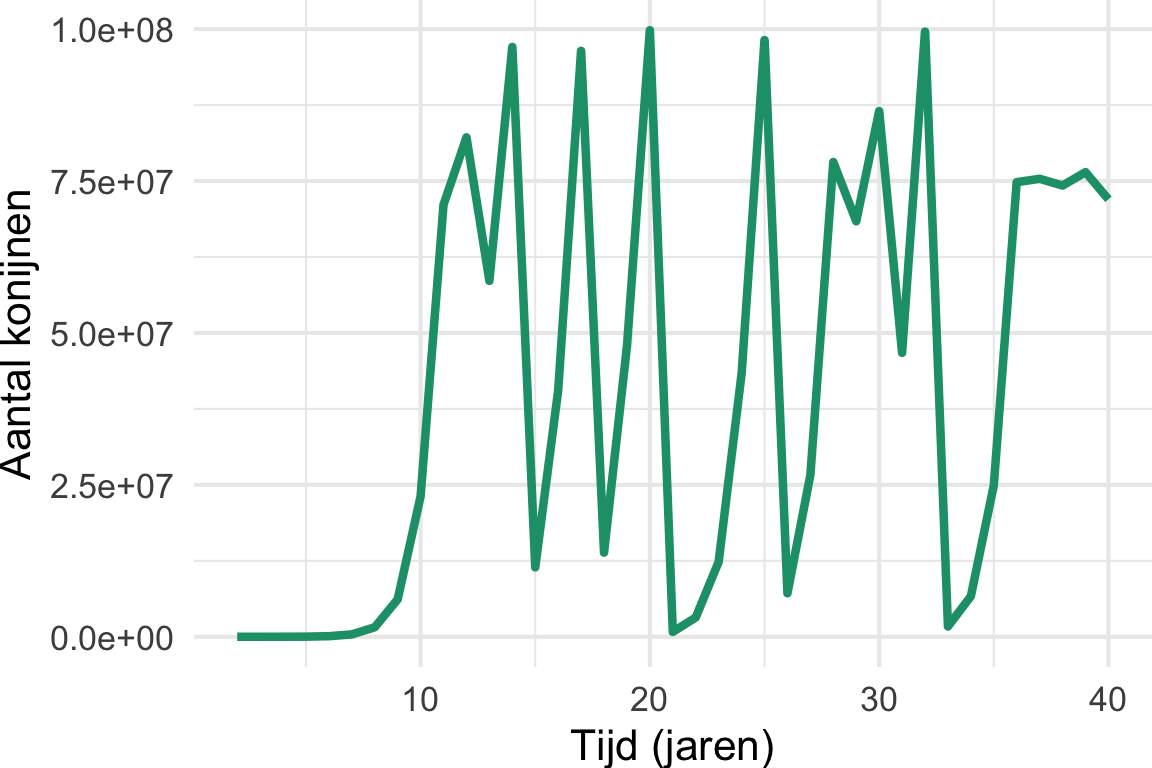
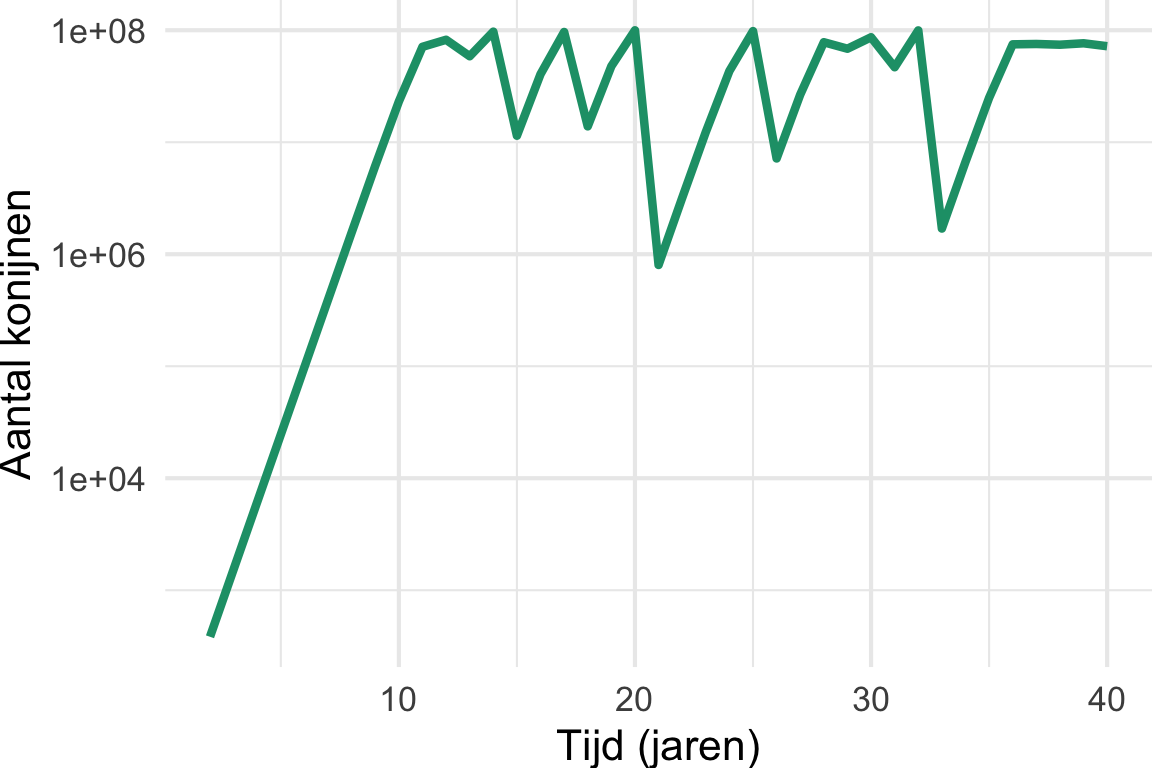
Dispatch book 2026-02-13

diff --git a/Appendices/antwoorden_modellen.html b/Appendices/antwoorden_modellen.html
@@ -624,15 +624,14 @@ Figuur&nbsp;1
 <div class="cell">
 <div class="sourceCode cell-code" id="cb4"><pre class="sourceCode r code-with-copy"><code class="sourceCode r"><span id="cb4-1"><a href="#cb4-1" aria-hidden="true" tabindex="-1"></a><span class="co"># Stap 1: Stel begin-aantal konijnen en de groeisnelheid in</span></span>
 <span id="cb4-2"><a href="#cb4-2" aria-hidden="true" tabindex="-1"></a>N <span class="ot">&lt;-</span> <span class="dv">24</span></span>
-<span id="cb4-3"><a href="#cb4-3" aria-hidden="true" tabindex="-1"></a>r <span class="ot">&lt;-</span> <span class="dv">2</span></span>
-<span id="cb4-4"><a href="#cb4-4" aria-hidden="true" tabindex="-1"></a><span class="co"># verdubbel het aantal konijnen 20 keer</span></span>
-<span id="cb4-5"><a href="#cb4-5" aria-hidden="true" tabindex="-1"></a><span class="cf">for</span> (i <span class="cf">in</span> <span class="dv">1</span><span class="sc">:</span><span class="dv">20</span>){ </span>
-<span id="cb4-6"><a href="#cb4-6" aria-hidden="true" tabindex="-1"></a>  N <span class="ot">&lt;-</span> r<span class="sc">*</span>N</span>
-<span id="cb4-7"><a href="#cb4-7" aria-hidden="true" tabindex="-1"></a>}</span>
-<span id="cb4-8"><a href="#cb4-8" aria-hidden="true" tabindex="-1"></a></span>
-<span id="cb4-9"><a href="#cb4-9" aria-hidden="true" tabindex="-1"></a><span class="co"># er zijn verschillende opties om "Het aantal konijnen na 20 tijdstappen is gelijk aan 25165824” te printen:</span></span>
-<span id="cb4-10"><a href="#cb4-10" aria-hidden="true" tabindex="-1"></a><span class="co"># met cat:</span></span>
-<span id="cb4-11"><a href="#cb4-11" aria-hidden="true" tabindex="-1"></a><span class="fu">cat</span>(<span class="st">"Het aantal konijnen na 20 tijdstappen is gelijk aan "</span>, N)</span></code><button title="Kopieer naar klembord" class="code-copy-button"><i class="bi"></i></button></pre></div>
+<span id="cb4-3"><a href="#cb4-3" aria-hidden="true" tabindex="-1"></a><span class="co"># verdubbel het aantal konijnen 20 keer</span></span>
+<span id="cb4-4"><a href="#cb4-4" aria-hidden="true" tabindex="-1"></a><span class="cf">for</span> (i <span class="cf">in</span> <span class="dv">1</span><span class="sc">:</span><span class="dv">20</span>){ </span>
+<span id="cb4-5"><a href="#cb4-5" aria-hidden="true" tabindex="-1"></a>  N <span class="ot">&lt;-</span> <span class="dv">2</span><span class="sc">*</span>N</span>
+<span id="cb4-6"><a href="#cb4-6" aria-hidden="true" tabindex="-1"></a>}</span>
+<span id="cb4-7"><a href="#cb4-7" aria-hidden="true" tabindex="-1"></a></span>
+<span id="cb4-8"><a href="#cb4-8" aria-hidden="true" tabindex="-1"></a><span class="co"># er zijn verschillende opties om "Het aantal konijnen na 20 tijdstappen is gelijk aan 25165824” te printen:</span></span>
+<span id="cb4-9"><a href="#cb4-9" aria-hidden="true" tabindex="-1"></a><span class="co"># met cat:</span></span>
+<span id="cb4-10"><a href="#cb4-10" aria-hidden="true" tabindex="-1"></a><span class="fu">cat</span>(<span class="st">"Het aantal konijnen na 20 tijdstappen is gelijk aan "</span>, N)</span></code><button title="Kopieer naar klembord" class="code-copy-button"><i class="bi"></i></button></pre></div>
 <div class="cell-output cell-output-stdout">
 <pre><code>Het aantal konijnen na 20 tijdstappen is gelijk aan  25165824</code></pre>
 </div>
@@ -646,14 +645,15 @@ Figuur&nbsp;1
 <div class="cell">
 <div class="sourceCode cell-code" id="cb8"><pre class="sourceCode r code-with-copy"><code class="sourceCode r"><span id="cb8-1"><a href="#cb8-1" aria-hidden="true" tabindex="-1"></a><span class="co"># Stap 1: Stel begin-aantal konijnen in</span></span>
 <span id="cb8-2"><a href="#cb8-2" aria-hidden="true" tabindex="-1"></a>N <span class="ot">&lt;-</span> <span class="dv">24</span></span>
-<span id="cb8-3"><a href="#cb8-3" aria-hidden="true" tabindex="-1"></a></span>
-<span id="cb8-4"><a href="#cb8-4" aria-hidden="true" tabindex="-1"></a><span class="co"># Stap 2: Verdubbel het aantal konijnen 30 keer</span></span>
-<span id="cb8-5"><a href="#cb8-5" aria-hidden="true" tabindex="-1"></a><span class="cf">for</span> (t <span class="cf">in</span> <span class="dv">1</span><span class="sc">:</span><span class="dv">30</span>){</span>
-<span id="cb8-6"><a href="#cb8-6" aria-hidden="true" tabindex="-1"></a>  N[t<span class="sc">+</span><span class="dv">1</span>] <span class="ot">&lt;-</span> <span class="dv">2</span><span class="sc">*</span>N[t]</span>
-<span id="cb8-7"><a href="#cb8-7" aria-hidden="true" tabindex="-1"></a>}</span>
-<span id="cb8-8"><a href="#cb8-8" aria-hidden="true" tabindex="-1"></a></span>
-<span id="cb8-9"><a href="#cb8-9" aria-hidden="true" tabindex="-1"></a><span class="co"># Stap 3: Plot het resultaat</span></span>
-<span id="cb8-10"><a href="#cb8-10" aria-hidden="true" tabindex="-1"></a><span class="fu">plot</span>(N, <span class="at">type=</span><span class="st">'l'</span>, <span class="at">col=</span><span class="st">"seagreen"</span>, <span class="at">lwd=</span><span class="dv">2</span>)</span></code><button title="Kopieer naar klembord" class="code-copy-button"><i class="bi"></i></button></pre></div>
+<span id="cb8-3"><a href="#cb8-3" aria-hidden="true" tabindex="-1"></a>r <span class="ot">&lt;-</span> <span class="dv">2</span></span>
+<span id="cb8-4"><a href="#cb8-4" aria-hidden="true" tabindex="-1"></a></span>
+<span id="cb8-5"><a href="#cb8-5" aria-hidden="true" tabindex="-1"></a><span class="co"># Stap 2: Vermeerder het aantal konijnen 30 keer</span></span>
+<span id="cb8-6"><a href="#cb8-6" aria-hidden="true" tabindex="-1"></a><span class="cf">for</span> (t <span class="cf">in</span> <span class="dv">1</span><span class="sc">:</span><span class="dv">30</span>){</span>
+<span id="cb8-7"><a href="#cb8-7" aria-hidden="true" tabindex="-1"></a>  N[t<span class="sc">+</span><span class="dv">1</span>] <span class="ot">&lt;-</span> r<span class="sc">*</span>N[t]</span>
+<span id="cb8-8"><a href="#cb8-8" aria-hidden="true" tabindex="-1"></a>}</span>
+<span id="cb8-9"><a href="#cb8-9" aria-hidden="true" tabindex="-1"></a></span>
+<span id="cb8-10"><a href="#cb8-10" aria-hidden="true" tabindex="-1"></a><span class="co"># Stap 3: Plot het resultaat</span></span>
+<span id="cb8-11"><a href="#cb8-11" aria-hidden="true" tabindex="-1"></a><span class="fu">plot</span>(N, <span class="at">type=</span><span class="st">'l'</span>, <span class="at">col=</span><span class="st">"seagreen"</span>, <span class="at">lwd=</span><span class="dv">2</span>)</span></code><button title="Kopieer naar klembord" class="code-copy-button"><i class="bi"></i></button></pre></div>
 <div class="cell-output-display">
 <div>
 <figure class="figure">
@@ -666,12 +666,13 @@ Figuur&nbsp;1
 <div class="cell">
 <div class="sourceCode cell-code" id="cb9"><pre class="sourceCode r code-with-copy"><code class="sourceCode r"><span id="cb9-1"><a href="#cb9-1" aria-hidden="true" tabindex="-1"></a><span class="co"># Stap 1: Stel begin -aantal konijnen in</span></span>
 <span id="cb9-2"><a href="#cb9-2" aria-hidden="true" tabindex="-1"></a>N <span class="ot">&lt;-</span> <span class="dv">24</span></span>
-<span id="cb9-3"><a href="#cb9-3" aria-hidden="true" tabindex="-1"></a><span class="co"># Stap 2: Verdubbel het aantal konijnen 30 keer</span></span>
-<span id="cb9-4"><a href="#cb9-4" aria-hidden="true" tabindex="-1"></a><span class="cf">for</span> (t <span class="cf">in</span> <span class="dv">1</span><span class="sc">:</span><span class="dv">30</span>){</span>
-<span id="cb9-5"><a href="#cb9-5" aria-hidden="true" tabindex="-1"></a>N[t<span class="sc">+</span><span class="dv">1</span>] <span class="ot">&lt;-</span> <span class="dv">2</span><span class="sc">*</span>N[t]</span>
-<span id="cb9-6"><a href="#cb9-6" aria-hidden="true" tabindex="-1"></a>}</span>
-<span id="cb9-7"><a href="#cb9-7" aria-hidden="true" tabindex="-1"></a><span class="co"># Stap 3: Plot het resultaat met een logaritmische y as, net zoals in de code van figuur 3</span></span>
-<span id="cb9-8"><a href="#cb9-8" aria-hidden="true" tabindex="-1"></a><span class="fu">plot</span>(N , <span class="at">type=</span><span class="st">'l'</span>, <span class="at">col=</span><span class="st">"seagreen"</span>, <span class="at">lwd=</span><span class="dv">2</span>, <span class="at">log=</span><span class="st">"y"</span>)</span></code><button title="Kopieer naar klembord" class="code-copy-button"><i class="bi"></i></button></pre></div>
+<span id="cb9-3"><a href="#cb9-3" aria-hidden="true" tabindex="-1"></a>r <span class="ot">&lt;-</span> <span class="dv">2</span></span>
+<span id="cb9-4"><a href="#cb9-4" aria-hidden="true" tabindex="-1"></a><span class="co"># Stap 2: Vermeerder het aantal konijnen 30 keer</span></span>
+<span id="cb9-5"><a href="#cb9-5" aria-hidden="true" tabindex="-1"></a><span class="cf">for</span> (t <span class="cf">in</span> <span class="dv">1</span><span class="sc">:</span><span class="dv">30</span>){</span>
+<span id="cb9-6"><a href="#cb9-6" aria-hidden="true" tabindex="-1"></a>N[t<span class="sc">+</span><span class="dv">1</span>] <span class="ot">&lt;-</span> r<span class="sc">*</span>N[t]</span>
+<span id="cb9-7"><a href="#cb9-7" aria-hidden="true" tabindex="-1"></a>}</span>
+<span id="cb9-8"><a href="#cb9-8" aria-hidden="true" tabindex="-1"></a><span class="co"># Stap 3: Plot het resultaat met een logaritmische y as, net zoals in de code van figuur 3</span></span>
+<span id="cb9-9"><a href="#cb9-9" aria-hidden="true" tabindex="-1"></a><span class="fu">plot</span>(N , <span class="at">type=</span><span class="st">'l'</span>, <span class="at">col=</span><span class="st">"seagreen"</span>, <span class="at">lwd=</span><span class="dv">2</span>, <span class="at">log=</span><span class="st">"y"</span>)</span></code><button title="Kopieer naar klembord" class="code-copy-button"><i class="bi"></i></button></pre></div>
 <div class="cell-output-display">
 <div>
 <figure class="figure">
@@ -866,14 +867,14 @@ N = {(b - 1) \over d} \\
 {\mathrm{d}P/\mathrm{d}t}
 {\mathrm{d}P/\mathrm{d}t}
 \)</span>.</p>
-<p><strong>c.</strong> De eenheid van <span class="math inline">\(\delta\)</span> is “per jaar”, want de term <span class="math inline">\(\delta P\)</span> heeft de eenheid <span class="math inline">\(P \over t\)</span> en <span class="math inline">\(\delta P = P \over t\)</span> geeft <span class="math inline">\(\delta = {1 \over t}\)</span>.</p>
+<p><strong>c.</strong> De eenheid van <span class="math inline">\(\delta\)</span> is “per jaar”, want de term <span class="math inline">\(\delta P\)</span> heeft de eenheid <span class="math inline">\(P \over t\)</span> en <span class="math inline">\(\delta P = {P \over t}\)</span> geeft <span class="math inline">\(\delta = {1 \over t}\)</span>.</p>
 <p><strong>d.</strong> De afbraak van plastic gaat erg langzaam, dus (met het huidige gedrag van mensen) is <span class="math inline">\(k\)</span> veel groter dan <span class="math inline">\(\delta P\)</span>.</p>
 <p><a href="../Modellen/odes_basis.html#exr-litersbacterien" class="quarto-xref">Oefening&nbsp;<span>11.2</span></a></p>
 <p><strong>a.</strong> Hiervoor gebruiken we de kettingregel. Omdat <span class="math inline">\(t\)</span> alleen in de macht staat wordt dit eenvoudig de afgeleide van deze macht (wat simpelweg <span class="math inline">\(r\)</span> is), keer de volledig functie <span class="math inline">\(B_0  \cdot e^{rt}\)</span>. De afgeleide is dus <span class="math inline">\(r \cdot B_0 \cdot e^{rt}\)</span>.</p>
 <p><strong>b.</strong> Het gehele deel na <span class="math inline">\(r\)</span> is belijk aan <span class="math inline">\(B(t)\)</span>, dus we kunnen de afgeleide uit a ook zo opschrijven: <span class="math inline">\(r \cdot B(t)\)</span>. Dit is gewoon weer de ODE! Het klopt dus inderdaad dat de afgeleide van de oplossing altijd gelijk is aan de ODE.</p>
 <p><strong>c.</strong> Eerst moeten we minuten in uren omrekenen. 400 minuten is 6 uur en 40 minuten, wat neerkomt op <span class="math inline">\(t=6.667\)</span> uur. Als we dit invullen in de oplossing krijgen we <span class="math inline">\(B(t) = B_0 \cdot e^{rt} = 1000 \cdot e^{1.4 \cdot 6.667} = 11,361,662\)</span>. Verbaal (in spreektaal) komt dit neer op 11 miljoen.</p>
 <p><strong>d.</strong> In dit geval hoeven we niets om te rekenen, want 24 uur is gewoon 24 uur. <span class="math inline">\(B(t) = B_0 \cdot e^{rt} = 1000 \cdot e^{1.4 \cdot 24} = 3.911061e17\)</span>. Verbaal (in spreektaal) is dit dus bijna 400 biljard (biljard is een getal met 15 nullen).</p>
-<p><strong>e.</strong> We hadden ongeveer <code>3.911061e17</code> bacterien, dus om het aantal liters te weten moeten we dit getal simpelweg vermenigvuldigen met het volume van 1 bacterie (zoals gegeven in de opdracht is dat <span class="math inline">\(10^{-15}\)</span> liter). Je kan dit in je rekenmachine intypen, maar is typen op je computer (Rstudio bijvoorbeeld!) veel makkelijker: <code>3.911061e17 * 10^{-15}=391.1061</code>. We hebben dus volgens onze berekening bijna 400 liter bacteriën na 24 uur. Deze hoeveelheid bacteriën past zeer zeker niet in een Erlenmeyer van 250 mililiter.</p>
+<p><strong>e.</strong> We hadden ongeveer <code>3.911061e17</code> bacterien, dus om het aantal liters te weten moeten we dit getal simpelweg vermenigvuldigen met het volume van 1 bacterie (zoals gegeven in de opdracht is dat <span class="math inline">\(0.6 \cdot 10^{-15}\)</span> liter). Je kan dit in je rekenmachine intypen, maar is typen op je computer (Rstudio bijvoorbeeld!) veel makkelijker: <code>3.911061e17 * 10^{-15}=234.6637</code>. We hebben dus volgens onze berekening bijna 235 liter bacteriën na 24 uur. Deze hoeveelheid bacteriën past zeer zeker niet in een Erlenmeyer van 250 mililiter.</p>
 <p><a href="../Modellen/odes_basis.html#exr-eenheden-tussen2" class="quarto-xref">Oefening&nbsp;<span>11.3</span></a></p>
 <p><strong>a.</strong> Bij <span class="math inline">\(P = {k \over \delta}\)</span>. Bij een evenwichtssituatie is <span class="math inline">\(
 \mathchoice{\frac{\mathrm{d}P}
@@ -930,7 +931,7 @@ N = {(b - 1) \over d} \\
 {\mathrm{d}B/\mathrm{d}t}
 {\mathrm{d}B/\mathrm{d}t}
 = p - d B = 0 \quad \text{ als...}\\
-    \delta B &amp;= p &amp; \\
+    dB &amp;= p &amp; \\
     B &amp;= \frac{p}{d} &amp;
 \end{align*}\]</span></p>
 <p><strong>d.</strong></p>
@@ -2996,7 +2997,7 @@ window.document.addEventListener("DOMContentLoaded", function (event) {
 </div>
   </div>
 </footer>
-<script>var lightboxQuarto = GLightbox({"selector":".lightbox","descPosition":"bottom","openEffect":"zoom","loop":false,"closeEffect":"zoom"});
+<script>var lightboxQuarto = GLightbox({"selector":".lightbox","descPosition":"bottom","loop":false,"openEffect":"zoom","closeEffect":"zoom"});
 (function() {
   let previousOnload = window.onload;
   window.onload = () => {

diff --git a/Modellen/odes_basis.html b/Modellen/odes_basis.html
@@ -635,21 +635,23 @@ N(t+1) &amp;= rN(t)(1-\frac{N(t)}{K})
 <span id="cb1-26"><a href="#cb1-26" aria-hidden="true" tabindex="-1"></a>  <span class="fu">scale_color_brewer</span>(<span class="at">type=</span><span class="st">"qual"</span>, <span class="at">palette =</span> <span class="st">"Dark2"</span>, <span class="at">name=</span><span class="st">""</span>) <span class="sc">+</span></span>
 <span id="cb1-27"><a href="#cb1-27" aria-hidden="true" tabindex="-1"></a>  <span class="fu">guides</span>(<span class="at">color=</span><span class="st">"none"</span>)<span class="sc">+</span></span>
 <span id="cb1-28"><a href="#cb1-28" aria-hidden="true" tabindex="-1"></a>  <span class="fu">ylab</span>(<span class="st">"Aantal konijnen"</span>) <span class="sc">+</span></span>
-<span id="cb1-29"><a href="#cb1-29" aria-hidden="true" tabindex="-1"></a>  <span class="fu">xlab</span>(<span class="st">"Tijd (jaren)"</span>) <span class="sc">+</span></span>
-<span id="cb1-30"><a href="#cb1-30" aria-hidden="true" tabindex="-1"></a>  <span class="fu">theme_minimal</span>(<span class="at">base_size=</span><span class="dv">16</span>)<span class="sc">+</span></span>
-<span id="cb1-31"><a href="#cb1-31" aria-hidden="true" tabindex="-1"></a>  <span class="fu">theme</span>(<span class="at">plot.margin =</span> <span class="fu">unit</span>(<span class="fu">c</span>(<span class="dv">0</span>,<span class="dv">0</span>,<span class="dv">0</span>,<span class="dv">0</span>), <span class="st">"cm"</span>))</span>
-<span id="cb1-32"><a href="#cb1-32" aria-hidden="true" tabindex="-1"></a>R_series <span class="sc">%&gt;%</span> <span class="fu">filter</span>(time<span class="sc">&gt;</span><span class="dv">1</span>,time <span class="sc">&lt;</span><span class="dv">40</span>,r<span class="sc">==</span><span class="dv">4</span>) <span class="sc">%&gt;%</span> </span>
-<span id="cb1-33"><a href="#cb1-33" aria-hidden="true" tabindex="-1"></a>  <span class="fu">ggplot</span>(<span class="fu">aes</span>(<span class="at">x=</span>time,<span class="at">y=</span>R,<span class="at">group=</span>s,<span class="at">col=</span><span class="fu">as.factor</span>(initR))) <span class="sc">+</span> </span>
-<span id="cb1-34"><a href="#cb1-34" aria-hidden="true" tabindex="-1"></a>  <span class="fu">geom_line</span>(<span class="at">size=</span><span class="fl">1.2</span>) <span class="sc">+</span> </span>
-<span id="cb1-35"><a href="#cb1-35" aria-hidden="true" tabindex="-1"></a>  <span class="co">#facet_wrap(~r, scale="free_y",ncol=1) + </span></span>
-<span id="cb1-36"><a href="#cb1-36" aria-hidden="true" tabindex="-1"></a>  <span class="fu">theme_bw</span>() <span class="sc">+</span></span>
-<span id="cb1-37"><a href="#cb1-37" aria-hidden="true" tabindex="-1"></a>  <span class="fu">guides</span>(<span class="at">color=</span><span class="st">"none"</span>)<span class="sc">+</span></span>
-<span id="cb1-38"><a href="#cb1-38" aria-hidden="true" tabindex="-1"></a>  <span class="fu">scale_color_brewer</span>(<span class="at">type=</span><span class="st">"qual"</span>, <span class="at">palette =</span> <span class="st">"Dark2"</span>, <span class="at">name=</span><span class="st">"Begin aantal</span><span class="sc">\n</span><span class="st">konijnen"</span>) <span class="sc">+</span></span>
-<span id="cb1-39"><a href="#cb1-39" aria-hidden="true" tabindex="-1"></a>  <span class="fu">guides</span>(<span class="at">alpha=</span><span class="st">"none"</span>) <span class="sc">+</span></span>
-<span id="cb1-40"><a href="#cb1-40" aria-hidden="true" tabindex="-1"></a>  <span class="fu">ylab</span>(<span class="st">"Aantal konijnen"</span>) <span class="sc">+</span></span>
-<span id="cb1-41"><a href="#cb1-41" aria-hidden="true" tabindex="-1"></a>  <span class="fu">xlab</span>(<span class="st">"Tijd (jaren)"</span>) <span class="sc">+</span></span>
-<span id="cb1-42"><a href="#cb1-42" aria-hidden="true" tabindex="-1"></a>  <span class="fu">theme_minimal</span>(<span class="at">base_size=</span><span class="dv">16</span>)<span class="sc">+</span></span>
-<span id="cb1-43"><a href="#cb1-43" aria-hidden="true" tabindex="-1"></a>  <span class="fu">theme</span>(<span class="at">plot.margin =</span> <span class="fu">unit</span>(<span class="fu">c</span>(<span class="dv">0</span>,<span class="dv">0</span>,<span class="dv">0</span>,<span class="dv">0</span>), <span class="st">"cm"</span>))</span></code><button title="Kopieer naar klembord" class="code-copy-button"><i class="bi"></i></button></pre></div>
+<span id="cb1-29"><a href="#cb1-29" aria-hidden="true" tabindex="-1"></a>  <span class="fu">scale_y_log10</span>()<span class="sc">+</span></span>
+<span id="cb1-30"><a href="#cb1-30" aria-hidden="true" tabindex="-1"></a>  <span class="fu">xlab</span>(<span class="st">"Tijd (jaren)"</span>) <span class="sc">+</span></span>
+<span id="cb1-31"><a href="#cb1-31" aria-hidden="true" tabindex="-1"></a>  <span class="fu">theme_minimal</span>(<span class="at">base_size=</span><span class="dv">16</span>)<span class="sc">+</span></span>
+<span id="cb1-32"><a href="#cb1-32" aria-hidden="true" tabindex="-1"></a>  <span class="fu">theme</span>(<span class="at">plot.margin =</span> <span class="fu">unit</span>(<span class="fu">c</span>(<span class="dv">0</span>,<span class="dv">0</span>,<span class="dv">0</span>,<span class="dv">0</span>), <span class="st">"cm"</span>))</span>
+<span id="cb1-33"><a href="#cb1-33" aria-hidden="true" tabindex="-1"></a>R_series <span class="sc">%&gt;%</span> <span class="fu">filter</span>(time<span class="sc">&gt;</span><span class="dv">1</span>,time <span class="sc">&lt;</span><span class="dv">40</span>,r<span class="sc">==</span><span class="dv">4</span>) <span class="sc">%&gt;%</span> </span>
+<span id="cb1-34"><a href="#cb1-34" aria-hidden="true" tabindex="-1"></a>  <span class="fu">ggplot</span>(<span class="fu">aes</span>(<span class="at">x=</span>time,<span class="at">y=</span>R,<span class="at">group=</span>s,<span class="at">col=</span><span class="fu">as.factor</span>(initR))) <span class="sc">+</span> </span>
+<span id="cb1-35"><a href="#cb1-35" aria-hidden="true" tabindex="-1"></a>  <span class="fu">geom_line</span>(<span class="at">size=</span><span class="fl">1.2</span>) <span class="sc">+</span> </span>
+<span id="cb1-36"><a href="#cb1-36" aria-hidden="true" tabindex="-1"></a>  <span class="co">#facet_wrap(~r, scale="free_y",ncol=1) + </span></span>
+<span id="cb1-37"><a href="#cb1-37" aria-hidden="true" tabindex="-1"></a>  <span class="fu">theme_bw</span>() <span class="sc">+</span></span>
+<span id="cb1-38"><a href="#cb1-38" aria-hidden="true" tabindex="-1"></a>  <span class="co">#guides(color="none")+</span></span>
+<span id="cb1-39"><a href="#cb1-39" aria-hidden="true" tabindex="-1"></a>  <span class="fu">scale_color_brewer</span>(<span class="at">type=</span><span class="st">"qual"</span>, <span class="at">palette =</span> <span class="st">"Dark2"</span>, <span class="at">name=</span><span class="st">"Begin aantal</span><span class="sc">\n</span><span class="st">konijnen"</span>) <span class="sc">+</span></span>
+<span id="cb1-40"><a href="#cb1-40" aria-hidden="true" tabindex="-1"></a>  <span class="fu">guides</span>(<span class="at">alpha=</span><span class="st">"none"</span>) <span class="sc">+</span></span>
+<span id="cb1-41"><a href="#cb1-41" aria-hidden="true" tabindex="-1"></a>  <span class="fu">scale_y_log10</span>()<span class="sc">+</span></span>
+<span id="cb1-42"><a href="#cb1-42" aria-hidden="true" tabindex="-1"></a>  <span class="fu">ylab</span>(<span class="st">"Aantal konijnen"</span>) <span class="sc">+</span></span>
+<span id="cb1-43"><a href="#cb1-43" aria-hidden="true" tabindex="-1"></a>  <span class="fu">xlab</span>(<span class="st">"Tijd (jaren)"</span>) <span class="sc">+</span></span>
+<span id="cb1-44"><a href="#cb1-44" aria-hidden="true" tabindex="-1"></a>  <span class="fu">theme_minimal</span>(<span class="at">base_size=</span><span class="dv">16</span>)<span class="sc">+</span></span>
+<span id="cb1-45"><a href="#cb1-45" aria-hidden="true" tabindex="-1"></a>  <span class="fu">theme</span>(<span class="at">plot.margin =</span> <span class="fu">unit</span>(<span class="fu">c</span>(<span class="dv">0</span>,<span class="dv">0</span>,<span class="dv">0</span>,<span class="dv">0</span>), <span class="st">"cm"</span>))</span></code><button title="Kopieer naar klembord" class="code-copy-button"><i class="bi"></i></button></pre></div>
 </details>
 <div id="fig-chaos" class="quarto-layout-panel">
 <figure class="quarto-float quarto-float-fig figure">
@@ -1111,7 +1113,7 @@ B(t) = B_0 \cdot e^{rt}
 <li><span class="math inline">\(t\)</span> de tijd in uren is</li>
 </ul>
 <ol type="a">
-<li>Bepaal de afgeleide voor <span class="math inline">\(t\)</span> van de rechter zijde van <a href="#eq-oplossingbact" class="quarto-xref">Vergelijking&nbsp;<span>11.6</span></a>.</li>
+<li>Bepaal de afgeleide van <span class="math inline">\(B(t)\)</span> (zie <a href="#eq-oplossingbact" class="quarto-xref">Vergelijking&nbsp;<span>11.6</span></a>).</li>
 <li>Kijk nog eens naar <a href="#eq-oplossingbact" class="quarto-xref">Vergelijking&nbsp;<span>11.6</span></a>. Kun je deze vergelijking gebruiken om het antwoord in a anders (korter!) opschrijven? Wat valt je op aan je antwoordt?</li>
 </ol>
 <p>We groeien een beginpopulatie van 1000 E. coli cellen. E. coli deelt onder goede omstandigheden <span class="math inline">\(1.4\)</span> keer per uur. Dankzij de algemene oplossing kunnen we precies uitrekenen hoeveel bacteriën er op elk tijdpunt zijn.</p>
@@ -1194,8 +1196,8 @@ B(t) = B_0 \cdot e^{rt}
 <li>De code in de for-loop produceert een specifieke oplossing, dat wil zeggen het rekent één van de mogelijke tijd-series uit voor <span class="math inline">\(B(t)\)</span>. Dit gebeurt op een zeer grove manier door in stappen de integraal (de opsomming van kleine veranderingen) door te rekenen. Om dit netjes te doen, gebruik je normaal gesproken integrators die automatisch zorgen dat de tijdstap niet te groot is<a href="#fn2" class="footnote-ref" id="fnref2" role="doc-noteref"><sup>2</sup></a>. Leg uit waarom dat belangrijk kan zijn (hint: denk aan het vorige hoofdstuk).</li>
 <li>Schat met behulp van de grafiek in hoe lang het duurt om de helft van het bloedverlies te herstellen.</li>
 <li>Stel dat je slechts een beetje bloed verliest (0.1%). Hoe lang duurt het om hiervan de helft te herstellen?</li>
-<li>Wat bepaalt denk je hoe snel je van bloedverlies herstelt (<span class="math inline">\(p\)</span>, <span class="math inline">\(d\)</span>, of beide)?</li>
-<li>Gebruik het script om te bepalen welke parameter (<span class="math inline">\(p\)</span> of <span class="math inline">\(d\)</span>) de snelheid van herstel bepaalt. Komt dit overeen met je eerdere inschatting?</li>
+<li>Heroverweeg – nu je het script hebt bekeken – nogmaals welke parameter (<span class="math inline">\(p\)</span>, <span class="math inline">\(d\)</span>, of beide) de snelheid van herstel bepaalt.</li>
+<li>Gebruik het script om te bepalen welke parameter (<span class="math inline">\(p\)</span> of <span class="math inline">\(d\)</span>) de snelheid van herstel bepaalt. Komt dit overeen met je eerdere inschattingen?</li>
 </ol>
 </div>
 <div id="exr-diffvsdiffinR" class="Rexr theorem exercise">
@@ -1244,7 +1246,7 @@ B(t) = B_0 \cdot e^{rt}
 <p>Het bovenstaande script is iets anders geschreven dan het eerste script. Simpele scripts kunnen vaak op heel veel manieren geschreven worden. Zo genereert de bovenstaande code niet een tijdserie-vector (zoals het vorige voorbeeld), maar een tijdserie-dataframe. Het voordeel hiervan is dat we ook een tweede kolom kunnen bijhouden: de hoeveelheid tijd die is verstreken.</p>
 <ol type="a">
 <li>Bestudeer het eerste R-script (voor de <strong>differentie</strong>vergelijking). Voer het script uit voor veel verschillende waarden van <span class="math inline">\(r\)</span>. Wat gebeurt er met <span class="math inline">\(r&lt;1\)</span>? Wat gebeurt er met <span class="math inline">\(r&gt;3.7\)</span>? <br></li>
-<li>Bestudeer ook het tweede R-script (voor de <strong>differentiaal</strong>vergelijking, waarbij we kleine stapjes nemen). Wat gebeurt er met <span class="math inline">\(r&lt;1\)</span>? Wat gebeurt er nu met <span class="math inline">\(r&gt;3.7\)</span>? Welke waarde van <span class="math inline">\(r\)</span> geeft afname? Welke Bij welke waarde van <span class="math inline">\(r\)</span> krijg je chaotische fluctuaties?</li>
+<li>Bestudeer ook het tweede R-script (voor de <strong>differentiaal</strong>vergelijking, waarbij we kleine stapjes nemen). Wat gebeurt er met <span class="math inline">\(r&lt;1\)</span>? Wat gebeurt er nu met <span class="math inline">\(r&gt;3.7\)</span>? Welke waarde van <span class="math inline">\(r\)</span> geeft afname? Bij welke waarde van <span class="math inline">\(r\)</span> krijg je chaotische fluctuaties?</li>
 <li>Maak de tijdstap voor de differentiaalvergelijking heel klein (bijv <code>delta_t = 0.0001</code>), en voer het hele script uit. Wat valt je op? (hint: R-studio heeft rechtsboven in de console een grote rode STOP-knop)</li>
 </ol>
 </div>
@@ -1911,7 +1913,7 @@ window.document.addEventListener("DOMContentLoaded", function (event) {
 </div>
   </div>
 </footer>
-<script>var lightboxQuarto = GLightbox({"openEffect":"zoom","descPosition":"bottom","closeEffect":"zoom","selector":".lightbox","loop":false});
+<script>var lightboxQuarto = GLightbox({"closeEffect":"zoom","openEffect":"zoom","selector":".lightbox","loop":false,"descPosition":"bottom"});
 (function() {
   let previousOnload = window.onload;
   window.onload = () => {

diff --git a/Modellen/exponentielegroei.html b/Modellen/exponentielegroei.html
@@ -578,6 +578,7 @@ window.Quarto = {
 <li>Aantonen wanneer groei exponentiëel is</li>
 <li>Uitleggen dat snelle groei niet altijd exponentiële groei is</li>
 <li>Uitleggen wat dichtheidsafhankelijkheid (<em>density dependence</em>) is, en hoe dit resulteert in een maximaal draagvermogen (<em>carrying capacity</em>) van een (eco)systeem of populatie</li>
+<li>Uitleggen wat logistische groei is, en hoe dit zich verhoudt tot exponentiële groei</li>
 </ul>
 <div class="quarto-figure quarto-figure-center">
 <figure class="figure">
@@ -868,7 +869,7 @@ Figuur&nbsp;10.3: De regels van een simpele computersimulatie voor de verspreidi
 <p>Laten we de konijnenpopulatie uit de vorige opgave ook in een ander type model bekijken. Hiervoor simuleren we een “miniatuur Australië” (zie <a href="#fig-rabbits-sim" class="quarto-xref">Figuur&nbsp;<span>10.3</span></a>). Laten we Australië in drie types hokjes opdelen: grashokjes (groen) waarop konijnen kunnen voortplanten, konijnhokjes (bruin), en oceaanhokjes (blauw). We nemen voor het gemak aan dat er geen woestijn-hokjes zijn, wat betekent dat konijnen overal in Australie kunnen voortplanten. Elke tijdstap kunnen konijnen zich vermenigvuldigen door een naastgelegen grashokje over te nemen. Deze “geboortekans” zetten we vast op 80%, en ondervindt géén dichtheidsafhankelijkheid. Konijnen kunnen ook sterven met een vaste kans van 1%, waardoor een bruin hokje weer groen wordt. Als laatste nemen we voor het gemak aan dat konijnen niet bewegen.</p>
 <ol type="a">
 <li><p>Lees de bovenstaande modelomschrijving zorgvuldig door. Verwacht je exponentiële groei? Waarom wel/niet?</p></li>
-<li><p>Verwacht je dat er een draagvermogen (<em>carrying capacity</em>) zal zijn?</p></li>
+<li><p>Verwacht je dat er een draagvermogen (<em>carrying capacity</em>) zal zijn? <strong>Bespreek je antwoord op a en b met je studentassistent</strong>.<a href="#fn2" class="footnote-ref" id="fnref2" role="doc-noteref"><sup>2</sup></a></p></li>
 <li><p>Een interactieve versie van deze simulatie zie je hieronder. Start de simulatie en bekijk de grafieken. Had je de vorige vragen juist beantwoord?</p></li>
 </ol>
 <div class="print-only">
@@ -886,7 +887,7 @@ Figuur&nbsp;10.3: De regels van een simpele computersimulatie voor de verspreidi
 </iframe>
 </div>
 <ol start="4" type="a">
-<li><p>Omdat dit model willekeur bevat (geboorte en sterfte worden met kansen bepaald), zijn populatiegroottes niet elke keer hetzelfde en is de groei nooit <em>perfect</em> exponentieel. We kunnen wél testen of de groei bij benadering exponentieel is. Daarvoor tellen we bijvoorbeeld elke 10 tijdstappen het aantal konijnen: <code>13, 108, 311, 665, 1137, 1773, 2549, 3384</code>. Gebruik R om te bepalen of deze groei ongeveer exponentieel is.</p></li>
+<li><p>Omdat dit model willekeur bevat (geboorte en sterfte worden met kansen bepaald), zijn populatiegroottes niet elke keer hetzelfde en is de groei nooit <em>perfect</em> exponentieel. We kunnen wél testen of de groei bij benadering exponentieel is. Daarvoor tellen we bijvoorbeeld elke 10 tijdstappen het aantal konijnen, wat we in een R-vector kunnen stoppen: <code>konijnen &lt;- c(13, 108, 311, 665, 1137, 1773, 2549, 3384)</code>. Dan kunnen we met <code>plot(konijnen, type='l')</code> kunnen we deze waarden plotten. Bepaal of deze groei exponentieel is.</p></li>
 <li><p>De simulatie bereikt een draagvermogen van ongeveer 8000 konijnen, wat veel minder is dan honderden miljoenen. We zouden een veel groter Australië kunnen simuleren, maar dat maakt een dergelijke computer-simulatie erg langzaam. We kunnen ook definiëren dat elk hokje niet 1 konijn is, maar een lokale populatie konijnen. Wat zou dit betekenen voor de interpretatie van de geboorte- en de sterftekans?</p></li>
 </ol>
 </div>
@@ -941,6 +942,7 @@ Figuur&nbsp;10.3: De regels van een simpele computersimulatie voor de verspreidi
 <hr>
 <ol>
 <li id="fn1"><p>Niet te verwarren met de differen<strong>tiaal</strong>vergelijking, waar we in het volgende hoofdstuk over gaan leren!<a href="#fnref1" class="footnote-back" role="doc-backlink">↩</a></p></li>
+<li id="fn2"><p>Verwachtingsvragen zijn vaak open, en er is niet een eenduidig “goed” of “fout” antwoord. Het is belangrijk dat je je verwachtingen onderbouwt, en dat je deze verwachtingen bespreekt met anderen, zodat je samen tot een beter begrip van de stof komt!<a href="#fnref2" class="footnote-back" role="doc-backlink">↩</a></p></li>
 </ol>
 </section>
 
@@ -1542,7 +1544,7 @@ window.document.addEventListener("DOMContentLoaded", function (event) {
 </div>
   </div>
 </footer>
-<script>var lightboxQuarto = GLightbox({"selector":".lightbox","loop":false,"closeEffect":"zoom","openEffect":"zoom","descPosition":"bottom"});
+<script>var lightboxQuarto = GLightbox({"closeEffect":"zoom","selector":".lightbox","openEffect":"zoom","loop":false,"descPosition":"bottom"});
 (function() {
   let previousOnload = window.onload;
   window.onload = () => {

diff --git a/Appendices/antwoorden_statistiek.html b/Appendices/antwoorden_statistiek.html
@@ -2631,7 +2631,7 @@ mean of x mean of y
 <p><strong>Visualiseren:</strong></p>
 <div class="sourceCode cell-code" id="cb162"><pre class="sourceCode r code-with-copy"><code class="sourceCode r"><span id="cb162-1"><a href="#cb162-1" aria-hidden="true" tabindex="-1"></a><span class="fu">hist</span>(massa_manacus<span class="sc">$</span>Weight)</span>
 <span id="cb162-2"><a href="#cb162-2" aria-hidden="true" tabindex="-1"></a><span class="fu">boxplot</span>(massa_manacus<span class="sc">$</span>Weight)</span></code><button title="Kopieer naar klembord" class="code-copy-button"><i class="bi"></i></button></pre></div>
-<div class="quarto-layout-panel" width="100%" data-layout="[[1,1]]">
+<div class="quarto-layout-panel" data-layout="[[1,1]]" width="100%">
 <div class="quarto-layout-row">
 <div class="cell quarto-layout-cell" style="flex-basis: 50.0%;justify-content: flex-start;">
 <div class="cell-output-display">
@@ -2721,7 +2721,7 @@ mean of x
 <li><p><strong>Mannetjes:</strong></p>
 <div class="sourceCode cell-code" id="cb171"><pre class="sourceCode r code-with-copy"><code class="sourceCode r"><span id="cb171-1"><a href="#cb171-1" aria-hidden="true" tabindex="-1"></a><span class="fu">boxplot</span>(man)</span>
 <span id="cb171-2"><a href="#cb171-2" aria-hidden="true" tabindex="-1"></a><span class="fu">hist</span>(man)</span></code><button title="Kopieer naar klembord" class="code-copy-button"><i class="bi"></i></button></pre></div>
-<div class="quarto-layout-panel" data-out-width="100%" data-layout="[[1,1]]">
+<div class="quarto-layout-panel" data-layout="[[1,1]]" data-out-width="100%">
 <div class="quarto-layout-row">
 <div class="cell quarto-layout-cell" style="flex-basis: 50.0%;justify-content: flex-start;">
 <div class="cell-output-display">
@@ -2746,7 +2746,7 @@ mean of x
 <p><strong>Vrouwtjes:</strong></p>
 <div class="sourceCode cell-code" id="cb172"><pre class="sourceCode r code-with-copy"><code class="sourceCode r"><span id="cb172-1"><a href="#cb172-1" aria-hidden="true" tabindex="-1"></a><span class="fu">boxplot</span>(vrouw)</span>
 <span id="cb172-2"><a href="#cb172-2" aria-hidden="true" tabindex="-1"></a><span class="fu">hist</span>(vrouw)</span></code><button title="Kopieer naar klembord" class="code-copy-button"><i class="bi"></i></button></pre></div>
-<div class="quarto-layout-panel" data-out-width="100%" data-layout="[[1,1]]">
+<div class="quarto-layout-panel" data-layout="[[1,1]]" data-out-width="100%">
 <div class="quarto-layout-row">
 <div class="cell quarto-layout-cell" style="flex-basis: 50.0%;justify-content: flex-start;">
 <div class="cell-output-display">
@@ -2812,7 +2812,7 @@ mean of x
 <span id="cb185-2"><a href="#cb185-2" aria-hidden="true" tabindex="-1"></a><span class="fu">qqline</span>(man)</span>
 <span id="cb185-3"><a href="#cb185-3" aria-hidden="true" tabindex="-1"></a><span class="fu">qqnorm</span>(vrouw)</span>
 <span id="cb185-4"><a href="#cb185-4" aria-hidden="true" tabindex="-1"></a><span class="fu">qqline</span>(vrouw)</span></code><button title="Kopieer naar klembord" class="code-copy-button"><i class="bi"></i></button></pre></div>
-<div class="quarto-layout-panel" data-out-width="100%" data-layout="[[1,1]]">
+<div class="quarto-layout-panel" data-layout="[[1,1]]" data-out-width="100%">
 <div class="quarto-layout-row">
 <div class="cell quarto-layout-cell" style="flex-basis: 50.0%;justify-content: flex-start;">
 <div class="cell-output-display">
@@ -4283,7 +4283,7 @@ window.document.addEventListener("DOMContentLoaded", function (event) {
 </div>
   </div>
 </footer>
-<script>var lightboxQuarto = GLightbox({"openEffect":"zoom","loop":false,"selector":".lightbox","closeEffect":"zoom","descPosition":"bottom"});
+<script>var lightboxQuarto = GLightbox({"openEffect":"zoom","selector":".lightbox","descPosition":"bottom","loop":false,"closeEffect":"zoom"});
 (function() {
   let previousOnload = window.onload;
   window.onload = () => {

diff --git a/Appendices/antwoorden_wiskunde.html b/Appendices/antwoorden_wiskunde.html
@@ -1580,7 +1580,7 @@ window.document.addEventListener("DOMContentLoaded", function (event) {
 </div>
   </div>
 </footer>
-<script>var lightboxQuarto = GLightbox({"loop":false,"openEffect":"zoom","descPosition":"bottom","closeEffect":"zoom","selector":".lightbox"});
+<script>var lightboxQuarto = GLightbox({"closeEffect":"zoom","descPosition":"bottom","openEffect":"zoom","selector":".lightbox","loop":false});
 (function() {
   let previousOnload = window.onload;
   window.onload = () => {

diff --git a/Modellen/competitie.html b/Modellen/competitie.html
@@ -1873,7 +1873,7 @@ window.document.addEventListener("DOMContentLoaded", function (event) {
 </div>
   </div>
 </footer>
-<script>var lightboxQuarto = GLightbox({"loop":false,"selector":".lightbox","openEffect":"zoom","descPosition":"bottom","closeEffect":"zoom"});
+<script>var lightboxQuarto = GLightbox({"selector":".lightbox","openEffect":"zoom","loop":false,"descPosition":"bottom","closeEffect":"zoom"});
 (function() {
   let previousOnload = window.onload;
   window.onload = () => {

diff --git a/Modellen/dichtheidseffecten.html b/Modellen/dichtheidseffecten.html
@@ -1520,7 +1520,7 @@ window.document.addEventListener("DOMContentLoaded", function (event) {
 </div>
   </div>
 </footer>
-<script>var lightboxQuarto = GLightbox({"selector":".lightbox","closeEffect":"zoom","loop":false,"descPosition":"bottom","openEffect":"zoom"});
+<script>var lightboxQuarto = GLightbox({"openEffect":"zoom","closeEffect":"zoom","loop":false,"selector":".lightbox","descPosition":"bottom"});
 (function() {
   let previousOnload = window.onload;
   window.onload = () => {

diff --git a/Modellen/exciteerbaremedia.html b/Modellen/exciteerbaremedia.html
@@ -1789,7 +1789,7 @@ window.document.addEventListener("DOMContentLoaded", function (event) {
 </div>
   </div>
 </footer>
-<script>var lightboxQuarto = GLightbox({"selector":".lightbox","loop":false,"openEffect":"zoom","descPosition":"bottom","closeEffect":"zoom"});
+<script>var lightboxQuarto = GLightbox({"openEffect":"zoom","closeEffect":"zoom","loop":false,"selector":".lightbox","descPosition":"bottom"});
 (function() {
   let previousOnload = window.onload;
   window.onload = () => {

diff --git a/Modellen/intro_modellen.html b/Modellen/intro_modellen.html
@@ -1388,7 +1388,7 @@ window.document.addEventListener("DOMContentLoaded", function (event) {
 </div>
   </div>
 </footer>
-<script>var lightboxQuarto = GLightbox({"selector":".lightbox","loop":false,"closeEffect":"zoom","openEffect":"zoom","descPosition":"bottom"});
+<script>var lightboxQuarto = GLightbox({"loop":false,"closeEffect":"zoom","descPosition":"bottom","selector":".lightbox","openEffect":"zoom"});
 (function() {
   let previousOnload = window.onload;
   window.onload = () => {

diff --git a/Modellen/odes_grind.html b/Modellen/odes_grind.html
@@ -1773,7 +1773,7 @@ window.document.addEventListener("DOMContentLoaded", function (event) {
 </div>
   </div>
 </footer>
-<script>var lightboxQuarto = GLightbox({"selector":".lightbox","closeEffect":"zoom","loop":false,"openEffect":"zoom","descPosition":"bottom"});
+<script>var lightboxQuarto = GLightbox({"descPosition":"bottom","loop":false,"openEffect":"zoom","closeEffect":"zoom","selector":".lightbox"});
 (function() {
   let previousOnload = window.onload;
   window.onload = () => {

diff --git a/Modellen/oefenvragen.html b/Modellen/oefenvragen.html
@@ -1247,7 +1247,7 @@ window.document.addEventListener("DOMContentLoaded", function (event) {
 </div>
   </div>
 </footer>
-<script>var lightboxQuarto = GLightbox({"descPosition":"bottom","selector":".lightbox","loop":false,"openEffect":"zoom","closeEffect":"zoom"});
+<script>var lightboxQuarto = GLightbox({"descPosition":"bottom","openEffect":"zoom","closeEffect":"zoom","selector":".lightbox","loop":false});
 (function() {
   let previousOnload = window.onload;
   window.onload = () => {

diff --git a/Modellen/predatorprooi.html b/Modellen/predatorprooi.html
@@ -2004,7 +2004,7 @@ window.document.addEventListener("DOMContentLoaded", function (event) {
 </div>
   </div>
 </footer>
-<script>var lightboxQuarto = GLightbox({"selector":".lightbox","closeEffect":"zoom","loop":false,"descPosition":"bottom","openEffect":"zoom"});
+<script>var lightboxQuarto = GLightbox({"loop":false,"closeEffect":"zoom","openEffect":"zoom","selector":".lightbox","descPosition":"bottom"});
 (function() {
   let previousOnload = window.onload;
   window.onload = () => {
